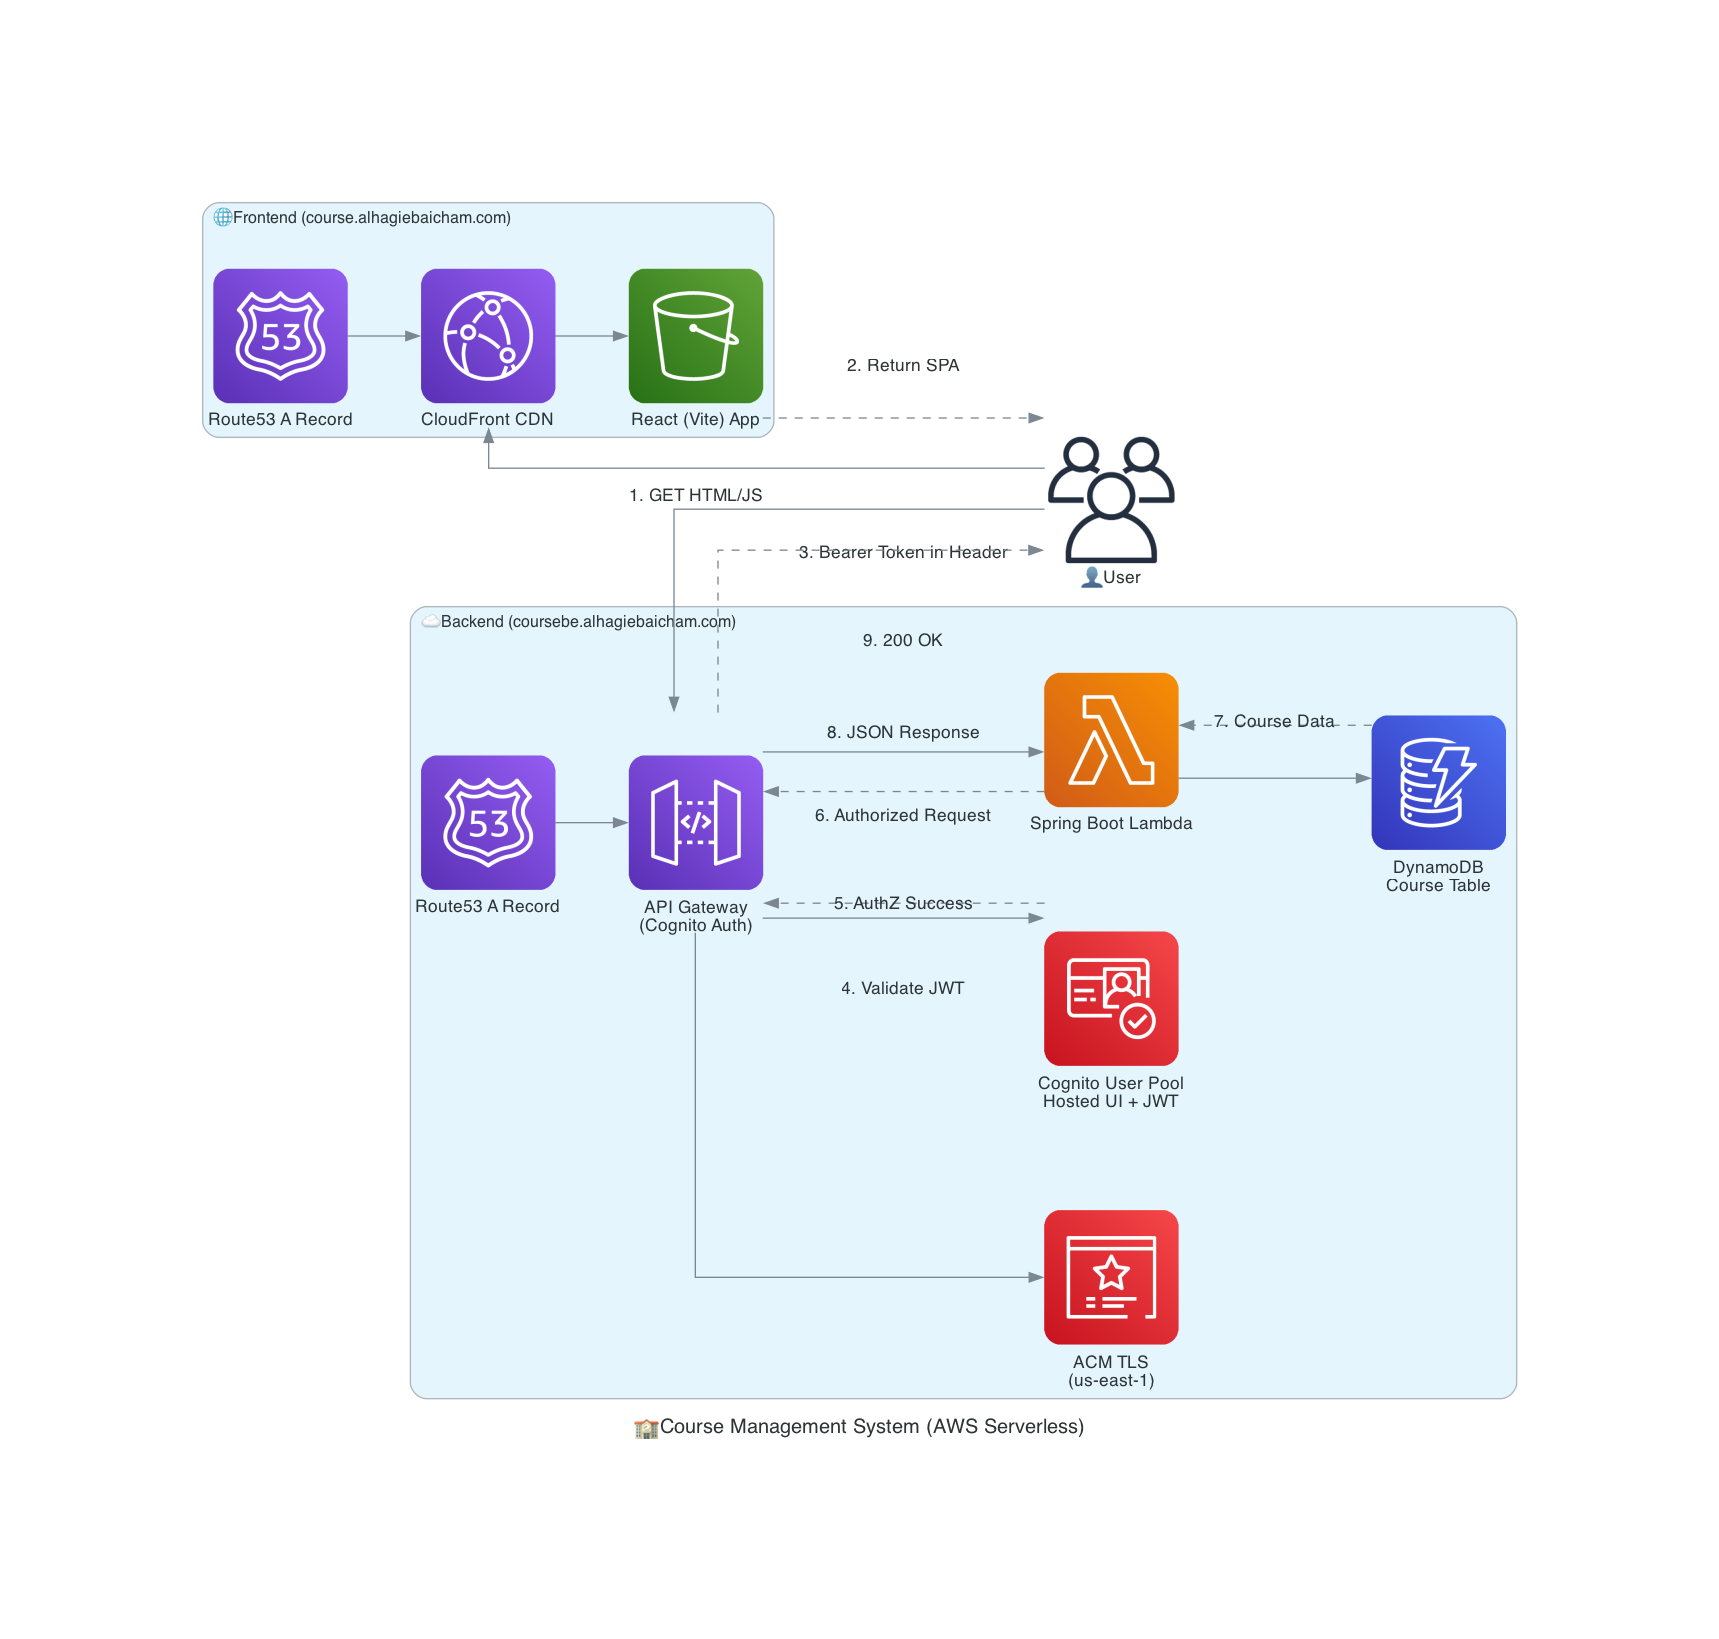
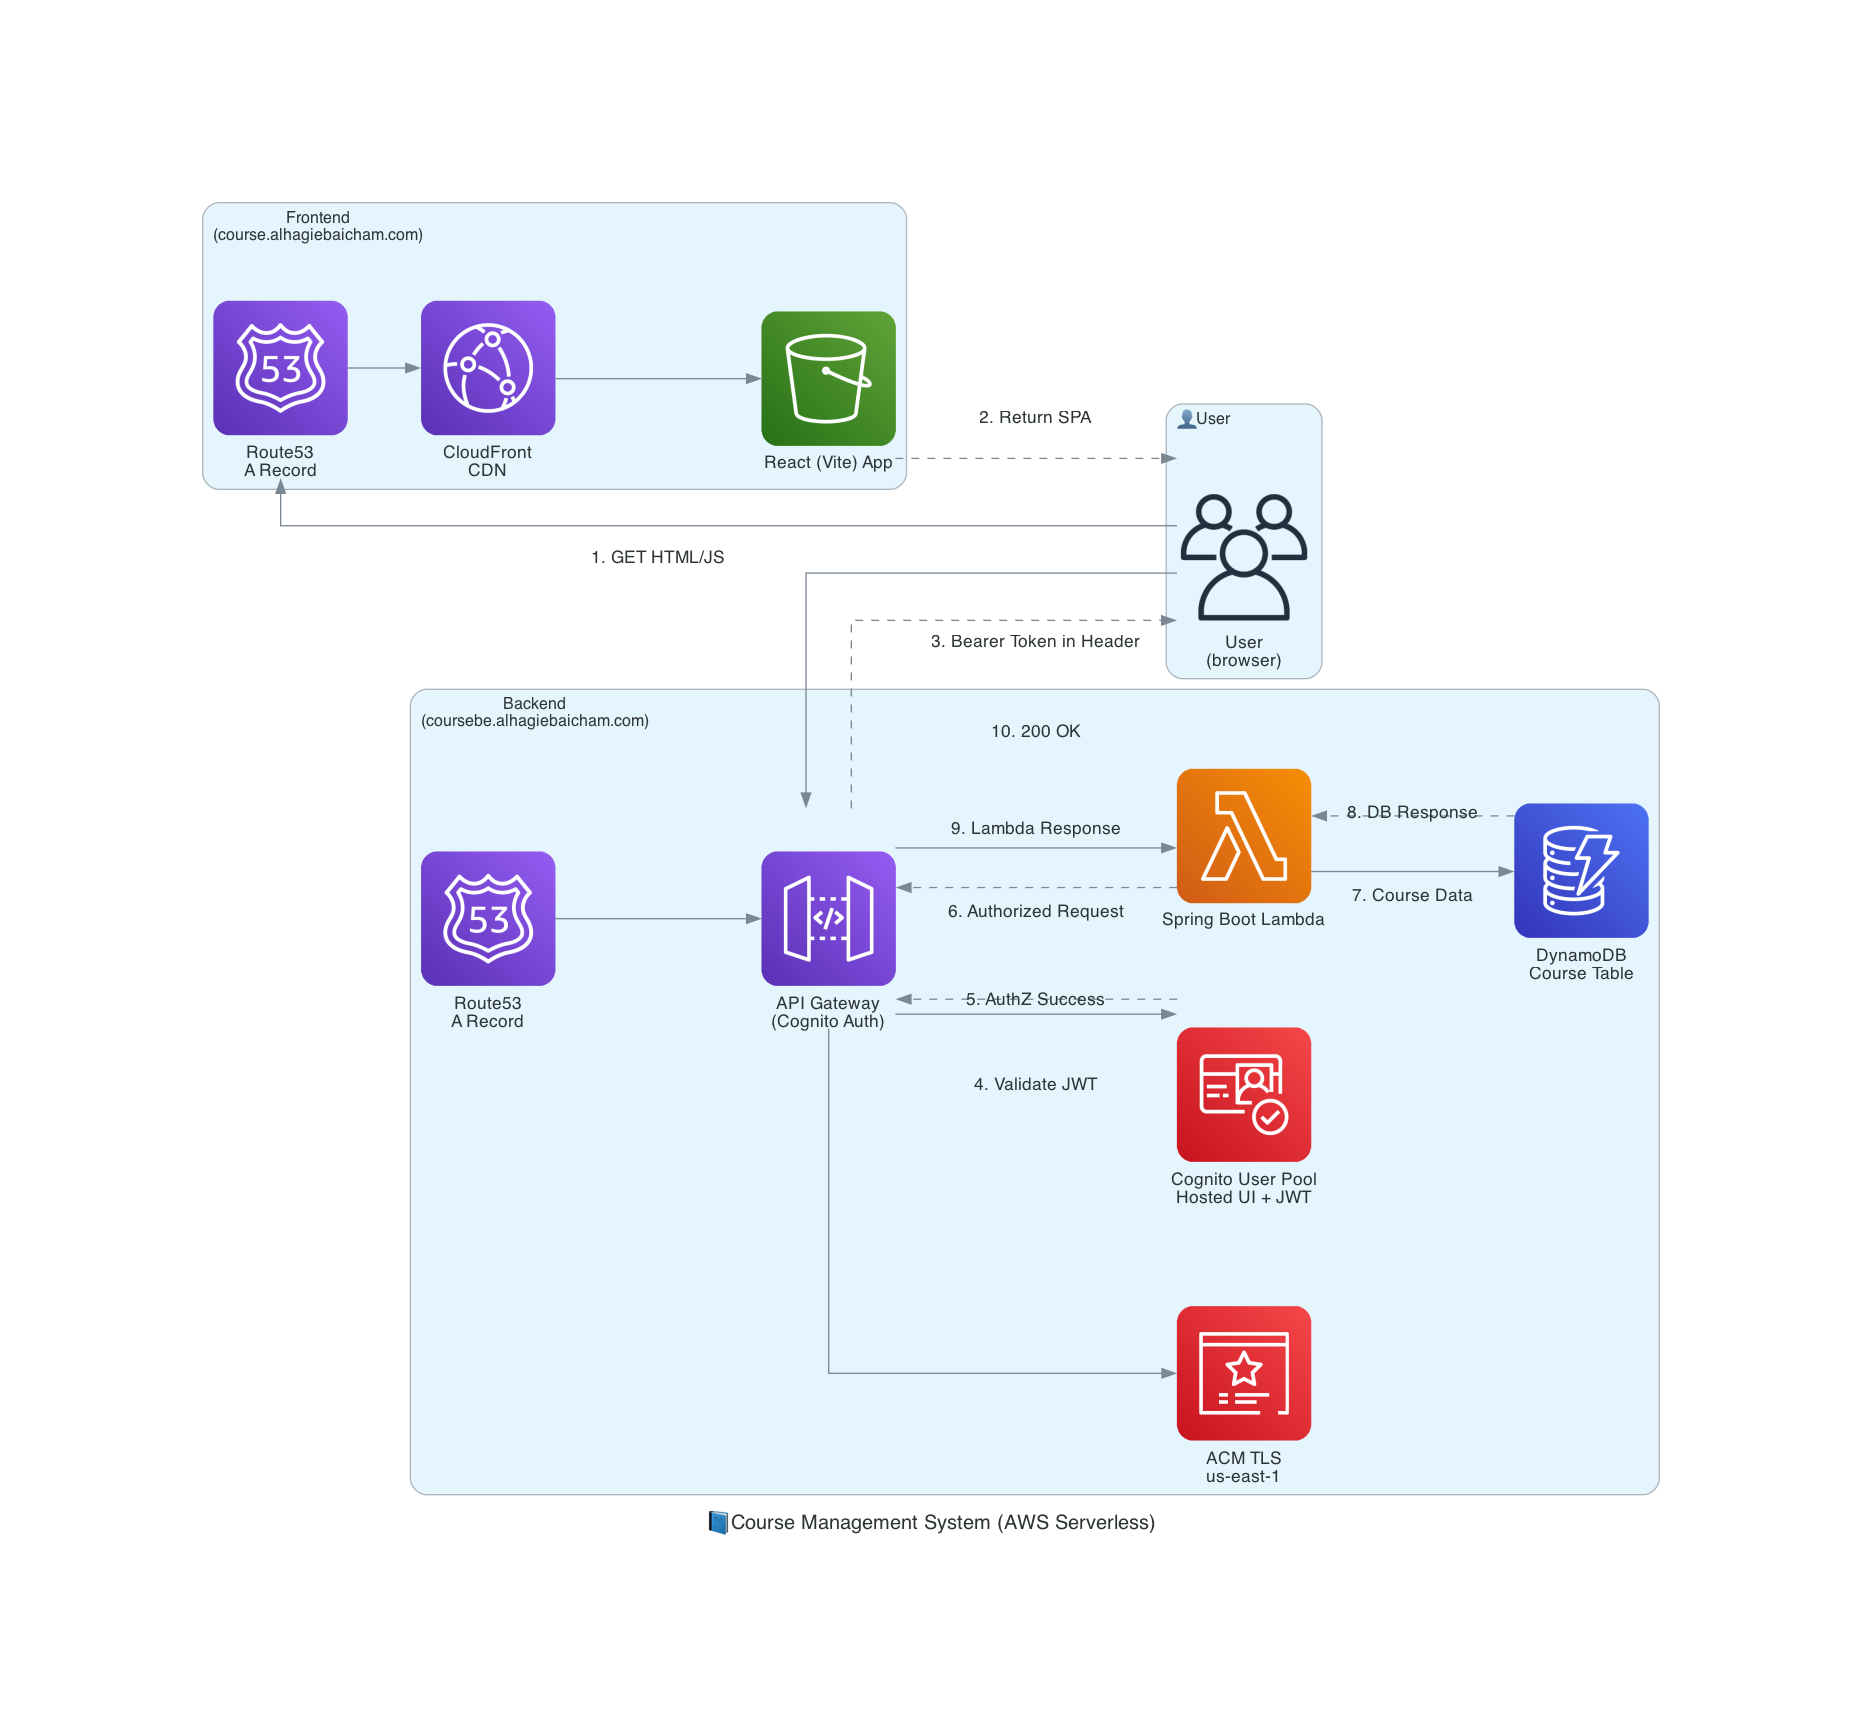
architecture rendered

Changed region(s): [[0.0925, 0.0933, 0.8941, 0.9024], [0.5241, 0.2178, 0.5858, 0.2489]]

diff --git a/zdocs/flow-diagram/architect.py b/zdocs/flow-diagram/architect.py
@@ -6,39 +6,51 @@ from diagrams.aws.security import Cognito, ACM
 from diagrams.aws.storage import S3
 from diagrams.onprem.client import Users
 
-with Diagram("🏫 Course Management System (AWS Serverless)", show=False, filename="course-architecture", outformat="png", direction="LR"):
-    
-    user = Users("👤 User")
+with Diagram(
+    "📘 Course Management System (AWS Serverless)",
+    show=False,
+    filename="course-architecture",
+    outformat="png",
+    direction="LR"
+):
 
-    with Cluster("🌐 Frontend (course.alhagiebaicham.com)"):
-        dns_frontend = Route53("Route53 A Record")
-        cdn = CloudFront("CloudFront CDN")
+    # 💡 Trick to force user to the left using a dummy cluster
+    with Cluster("👤 User"):
+        user = Users("User\n(browser)")
+
+    # ----- Frontend -----
+    with Cluster("Frontend\n(course.alhagiebaicham.com)"):
+        dns_frontend = Route53("Route53\nA Record")
+        cdn = CloudFront("CloudFront\nCDN")
         frontend = S3("React (Vite) App")
 
         dns_frontend >> cdn >> frontend
-        user >> Edge(label="1. GET HTML/JS") >> cdn
-        frontend >> Edge(style="dashed", label="2. Return SPA") >> user
 
-    with Cluster("☁ Backend (coursebe.alhagiebaicham.com)"):
-        dns_backend = Route53("Route53 A Record")
-        cert = ACM("ACM TLS\n(us-east-1)")
-        cognito = Cognito("Cognito User Pool\nHosted UI + JWT")
-        gateway = APIGateway("API Gateway\n(Cognito Auth)")
+    # ----- Backend -----
+    with Cluster("Backend\n(coursebe.alhagiebaicham.com)"):
+        dns_backend = Route53("Route53\nA Record")
+        api_gateway = APIGateway("API Gateway\n(Cognito Auth)")
         lambda_fn = Lambda("Spring Boot Lambda")
         db = Dynamodb("DynamoDB\nCourse Table")
+        cert = ACM("ACM TLS\nus-east-1")
+        cognito = Cognito("Cognito User Pool\nHosted UI + JWT")
 
-        # Route53 & TLS
-        dns_backend >> gateway
-        gateway >> cert
+        # Domain + TLS setup
+        dns_backend >> api_gateway
+        api_gateway >> cert
 
-        # Cognito Token Validation (JWT)
-        user >> Edge(label="3. Bearer Token in Header") >> gateway
-        gateway >> Edge(label="4. Validate JWT") >> cognito
-        cognito >> Edge(style="dashed", label="5. AuthZ Success") >> gateway
+        # Cognito Auth
+        api_gateway >> Edge(label="4. Validate JWT") >> cognito
+        cognito >> Edge(label="5. AuthZ Success", style="dashed") >> api_gateway
 
-        # Lambda processing
-        gateway >> Edge(label="6. Authorized Request") >> lambda_fn
-        lambda_fn >> db
-        db >> Edge(style="dashed", label="7. Course Data") >> lambda_fn
-        lambda_fn >> Edge(style="dashed", label="8. JSON Response") >> gateway
-        gateway >> Edge(style="dashed", label="9. 200 OK") >> user
+        # Lambda & DB
+        api_gateway >> Edge(label="6. Authorized Request") >> lambda_fn
+        lambda_fn >> Edge(label="7. Course Data") >> db
+        db >> Edge(label="8. DB Response", style="dashed") >> lambda_fn
+        lambda_fn >> Edge(label="9. Lambda Response", style="dashed") >> api_gateway
+        api_gateway >> Edge(label="10. 200 OK", style="dashed") >> user
+
+    # ----- End-to-End User Flow -----
+    user >> Edge(label="1. GET HTML/JS") >> dns_frontend
+    frontend >> Edge(label="2. Return SPA", style="dashed") >> user
+    user >> Edge(label="3. Bearer Token in Header") >> api_gateway
